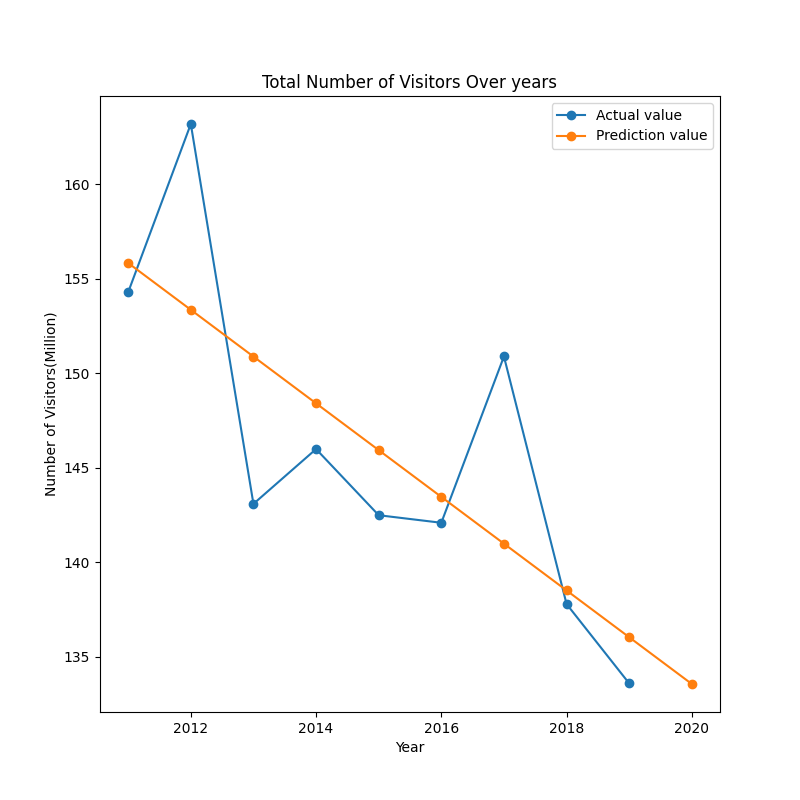
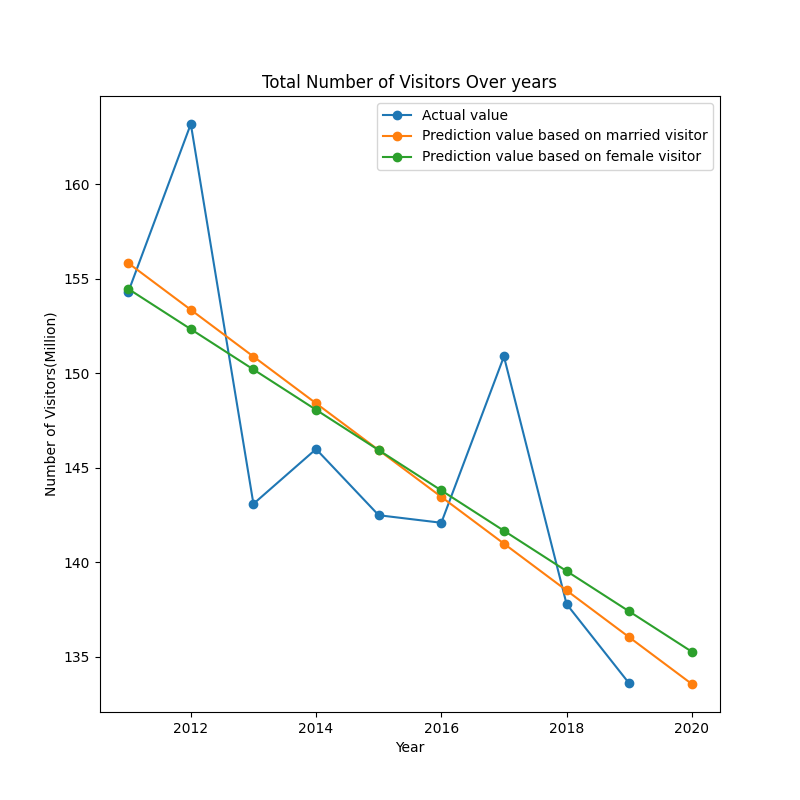
Compute the Chi-squares for the model.

diff --git a/transferModel.py b/transferModel.py
@@ -1,38 +1,38 @@
 import readFromDatabase as rfd
 import matplotlib.pyplot as plt
 from sklearn.linear_model import LinearRegression
+import scipy.stats as ss
 import numpy as np
 import statsmodels.api as sm
 
 ageData=rfd.readFrom('visitor', 'age')
 total=ageData.groupby('Year').sum().reset_index()
-data=rfd.readCertainVisitor('visitor', 'married', 'married').groupby('Year').sum().reset_index()
-x=data['Year'].values.reshape(-1, 1)
-y=data['Count'].values.reshape(-1, 1)
-reg1=LinearRegression()
-#The linear regression on 'married' based on time series
-reg1.fit(x, y)
-x=np.r_[x, [[2020]]]
-predictions = reg1.predict(x)
-#The linear regression between married visitors and total number of visitors.
-x=data['Count'].values.reshape(-1, 1)
-y=total['Count'].values.reshape(-1, 1)
-reg2=LinearRegression()
-reg2.fit(x, y)
-predictions = reg2.predict(predictions)
-#Number of visitors for next year is 133.579 million.
-print(predictions)
+list=[('married', 'married'), ('gender', 'female')]
 plt.figure(figsize=(8, 8))
 plt.plot(total['Year'], total['Count'], marker='o')
-plt.plot(range(2011, 2021), predictions, marker='o')
-plt.legend(['Actual value', 'Prediction value'])
+for i in list:
+    data = rfd.readCertainVisitor('visitor', i[0], i[1]).groupby('Year').sum().reset_index()
+    x = data['Year'].values.reshape(-1, 1)
+    y = data['Count'].values.reshape(-1, 1)
+    reg1 = LinearRegression()
+    # The linear regression on 'married' based on time series
+    reg1.fit(x, y)
+    x = np.r_[x, [[2020]]]
+    predictions = reg1.predict(x)
+    # The linear regression between married visitors and total number of visitors.
+    x = data['Count'].values.reshape(-1, 1)
+    y = total['Count'].values.reshape(-1, 1)
+    reg2 = LinearRegression()
+    reg2.fit(x, y)
+    predictions = reg2.predict(predictions)
+    # Number of visitors for next year is 133.579 million for married visitors and 135.277 million for female visitor.
+    #Both of them Chi-square about 0.982
+    plt.plot(range(2011, 2021), predictions, marker='o')
+    kf=ss.chisquare(total['Count'].to_list(), f_exp=predictions[:-1].flatten())
+    print(kf)
+plt.legend(['Actual value', 'Prediction value based on married visitor', 'Prediction value based on female visitor'])
 plt.xlabel('Year')
 plt.ylabel('Number of Visitors(Million)')
 plt.title('Total Number of Visitors Over years')
 plt.savefig('figures/predictionTransferModel.png')
 plt.show()
-#The performance of the model and R-squared is about 0.715
-x2=sm.add_constant(data['Year'])
-est=sm.OLS(data['Count'], x2)
-est2=est.fit()
-print(est2.summary())

diff --git a/timeSeries.py b/timeSeries.py
@@ -1,8 +1,7 @@
 import readFromDatabase as rfd
 import matplotlib.pyplot as plt
 from sklearn.linear_model import LinearRegression
-from sklearn.metrics import r2_score
-import statsmodels.api as sm
+import scipy.stats as ss
 
 list=[('gender', 'female'), ('cars', 'access to car (1+)'), ('married', 'married'),
       ('working', 'employed/self-employed (full or part time)')]
@@ -19,13 +18,9 @@ for item in list:
     print(item)
     print("The linear model is: y = {:.5} + {:.5}x".format(reg.intercept_[0], reg.coef_[0][0]))
     predictions = reg.predict(x)
+    kf = ss.chisquare(data['Count'].to_list(), f_exp=predictions.flatten())
+    print(kf)
     plt.plot(data['Year'], predictions)
-    x=data['Year']
-    y=data['Count']
-    x2 = sm.add_constant(x)
-    est = sm.OLS(y, x2)
-    est2 = est.fit()
-    #print(est2.summary())
     plt.xlabel('Year')
     plt.ylabel('Number of Visitors')
     plt.title('Number of visistors in '+item[1])

diff --git a/timeSeries.md b/timeSeries.md
@@ -1,7 +1,7 @@
 # Linear Regression on Time Series
-|Category| X | Model | R-squared | Pearson | Spearman |
-|:------:|:---:|:----:|:-------:|:-----:|:---------:|
-|Gender|female|y = 3516.3 + -1.7067x|0.506|-0.711|-0.633|
-|Cars|access to car (1+)|y = 3679.4 + -1.7667x|0.283|-0.532|-0.583|
-|Married|Married|y = 5802.8 + -2.8367x|0.715|-0.845|-0.933|
-|working|employed/self-employed (full or part time)|y = 6751.8 + -3.3083x|0.478|-0.691|-0.783|
+|Category| X | Model | R-squared | Pearson | Spearman |Chi-squares|
+|:------:|:---:|:----:|:-------:|:-----:|:---------:|:----------:|
+|Gender|female|y = 3516.3 + -1.7067x|0.506|-0.711|-0.633|0.976|
+|Cars|access to car (1+)|y = 3679.4 + -1.7667x|0.283|-0.532|-0.583|0.863|
+|Married|Married|y = 5802.8 + -2.8367x|0.715|-0.845|-0.933|0.978|
+|working|employed/self-employed (full or part time)|y = 6751.8 + -3.3083x|0.478|-0.691|-0.783|0.442|
